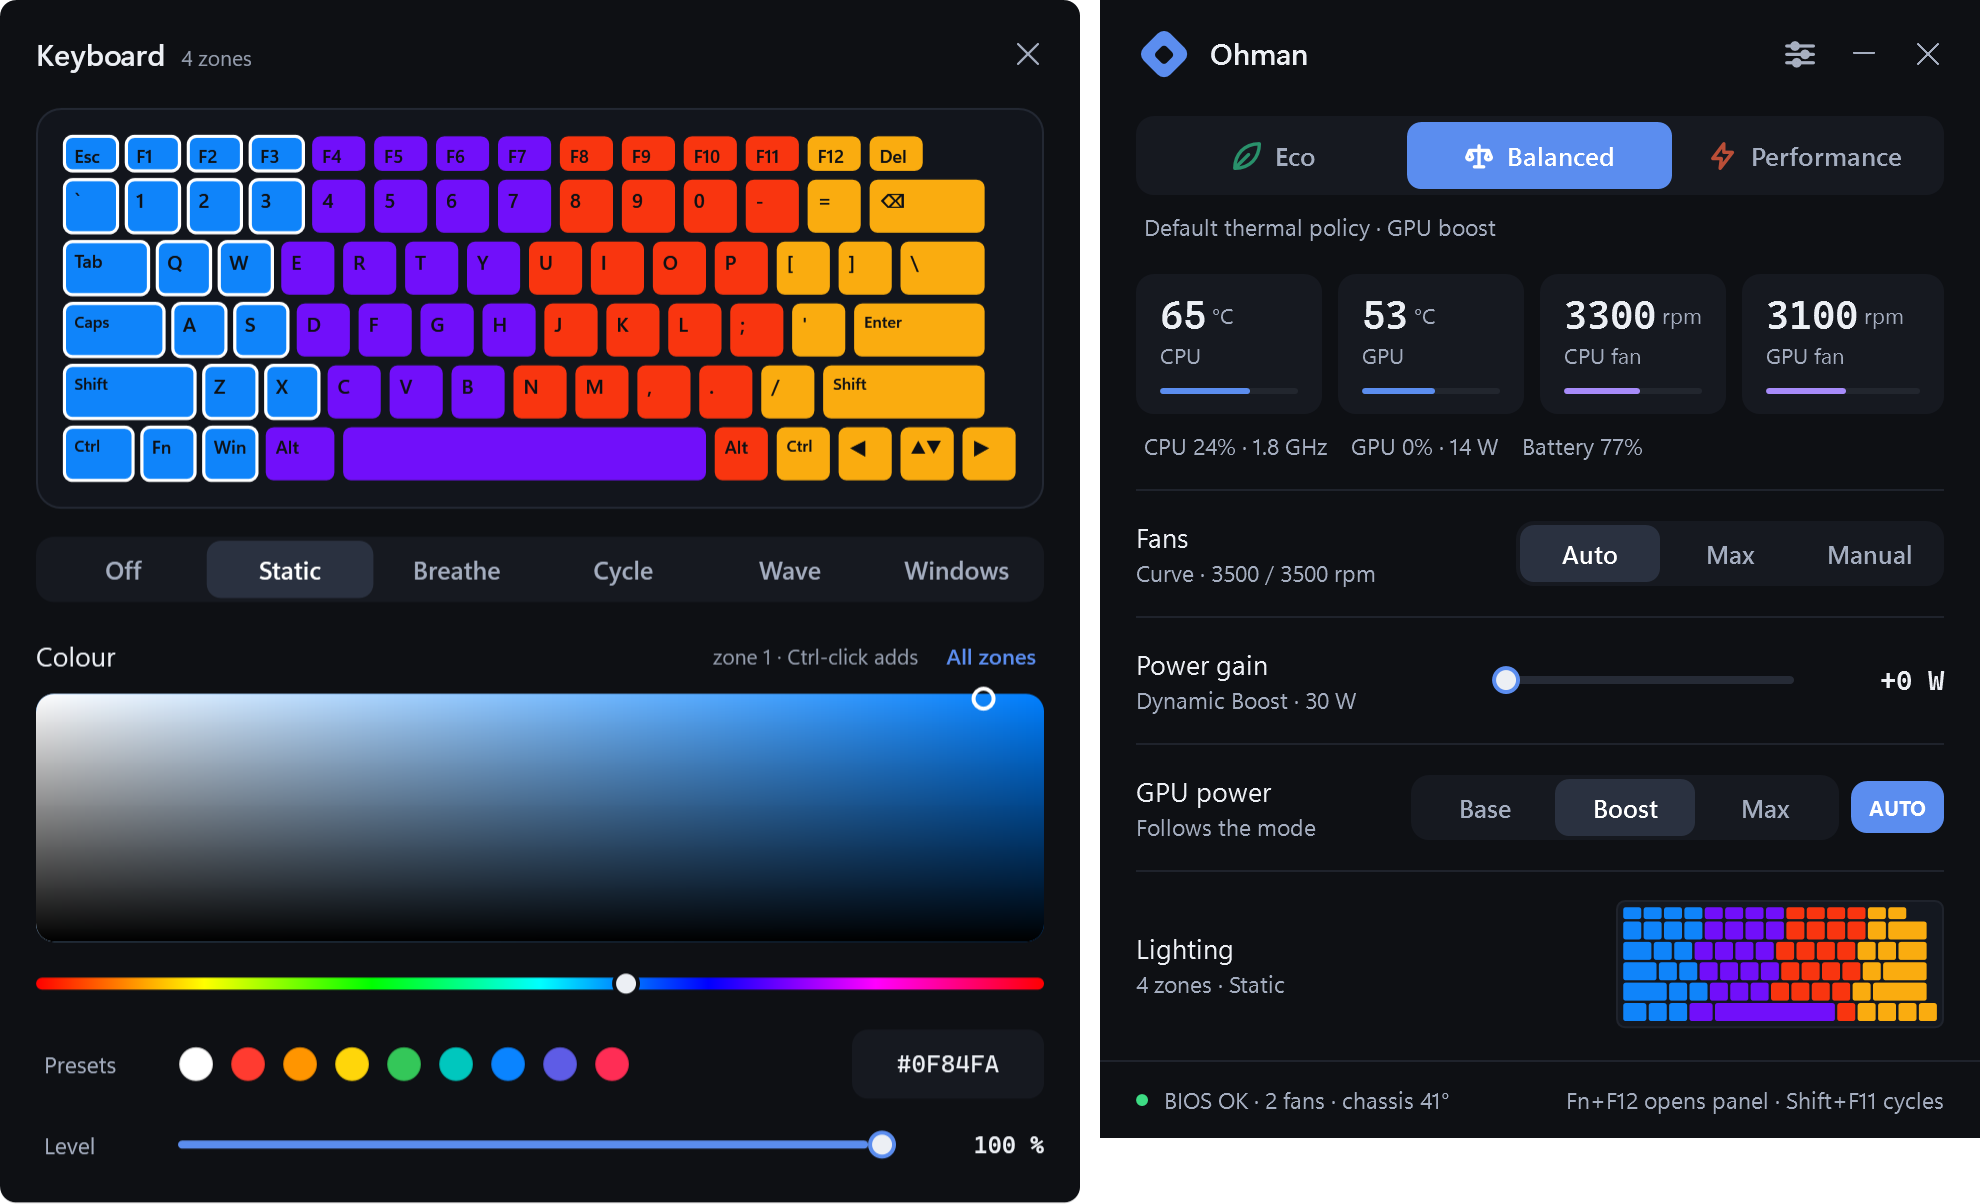
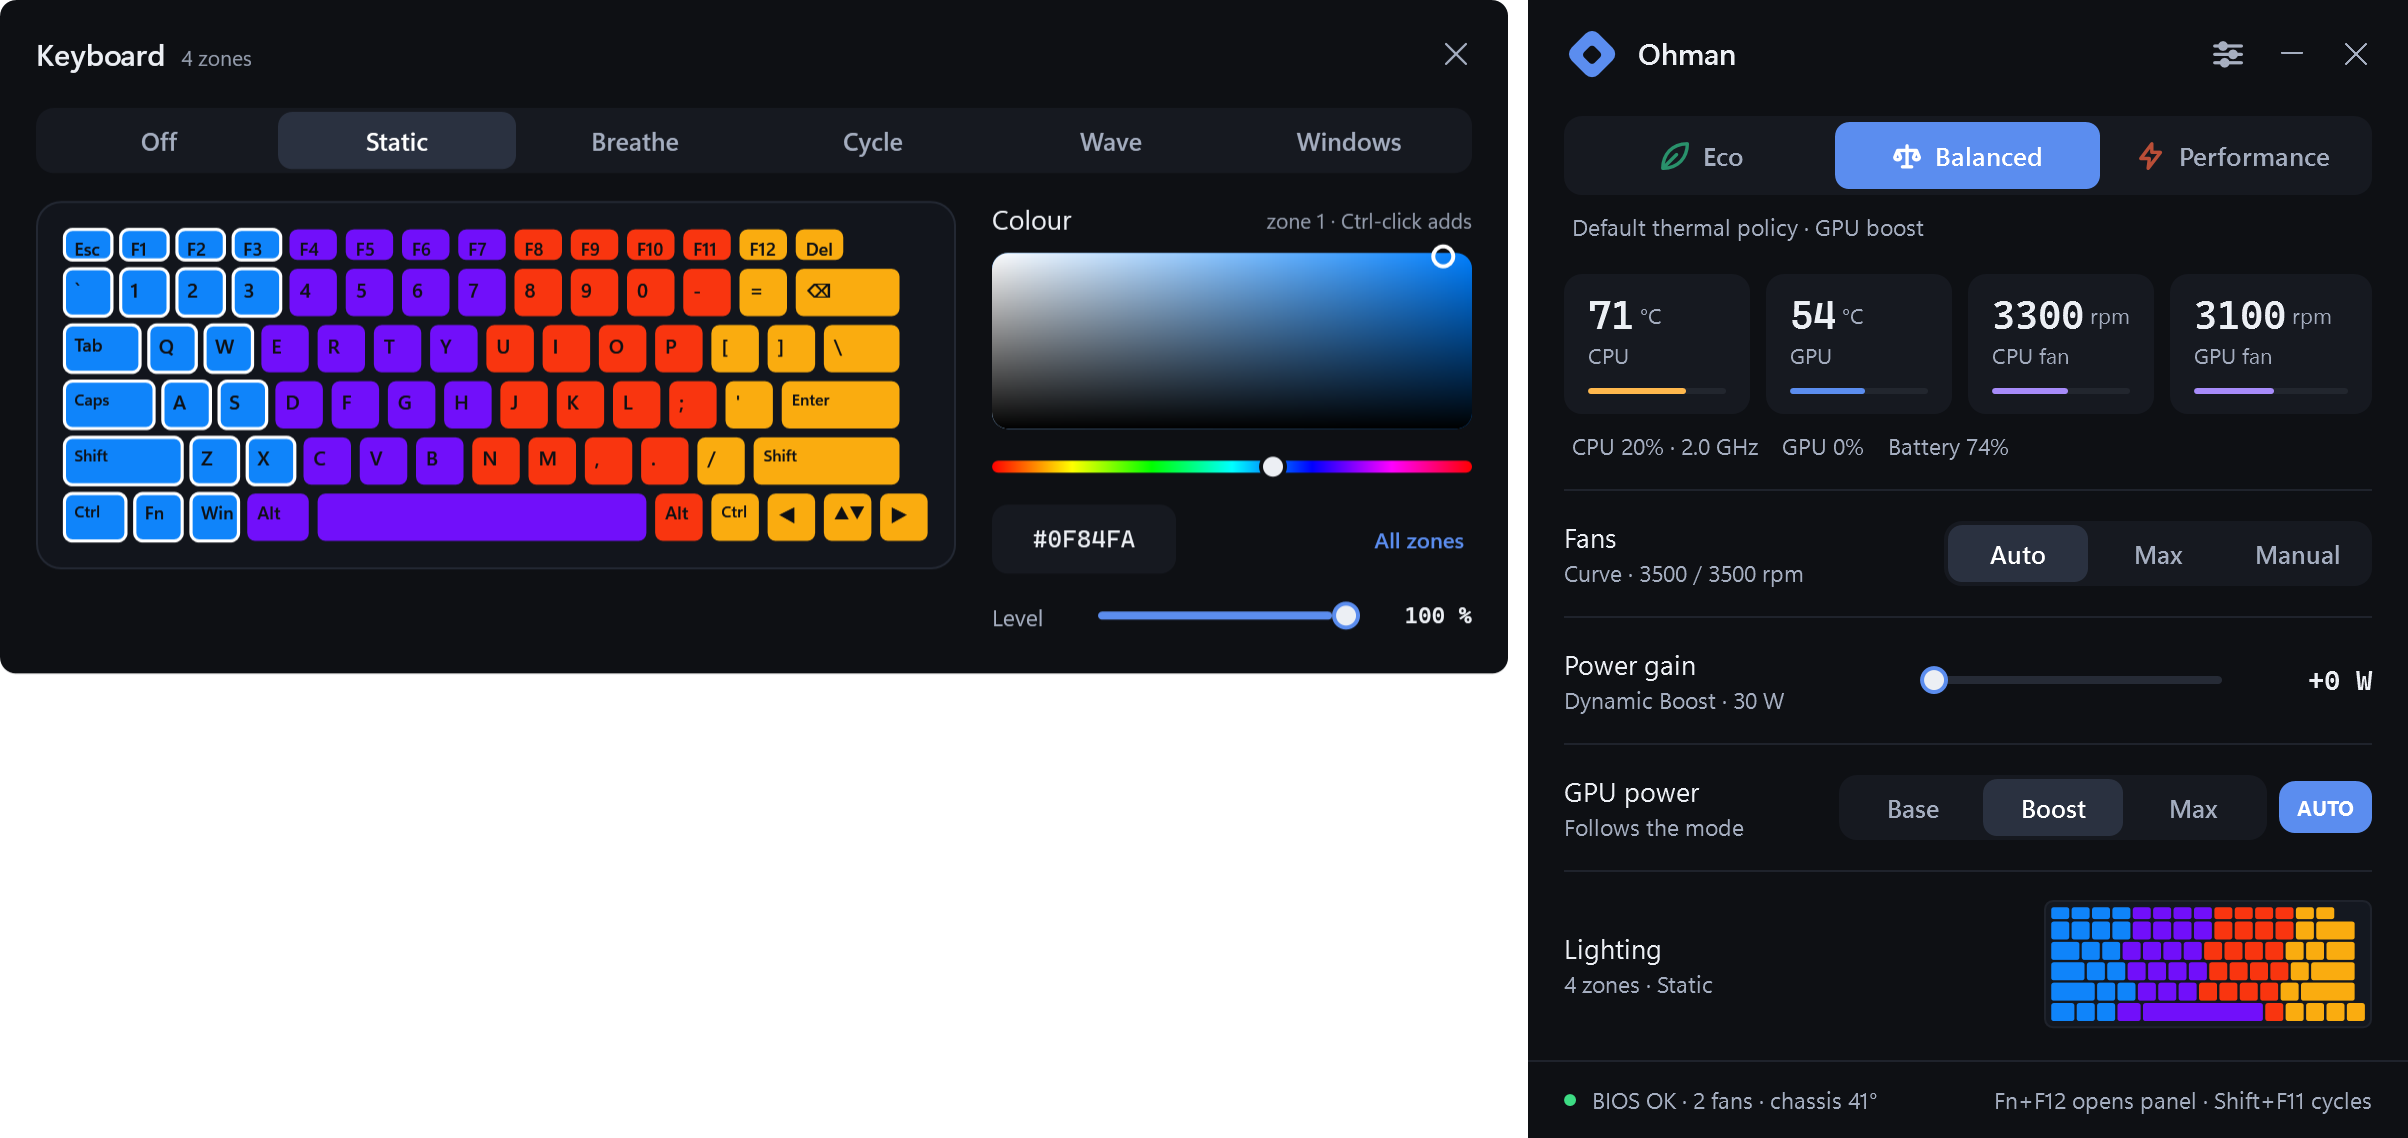
Keyboard editor: wide layout, keyboard beside a narrow controls column; presets removed

diff --git a/src/Ui.xaml b/src/Ui.xaml
@@ -409,14 +409,13 @@
     <ColumnDefinition Width="*"/>
   </Grid.ColumnDefinitions>
 
-  <!-- keyboard editor: slides open on the left of the panel -->
-  <Border x:Name="KbdPanel" Grid.Column="0" Width="540" Visibility="Collapsed" BorderBrush="{StaticResource Line}" BorderThickness="0,0,1,0">
+  <!-- keyboard editor: lives in its own window, docked beside the panel (see BuildKeyboardWindow) -->
+  <Border x:Name="KbdPanel" Grid.Column="0" Width="754" Visibility="Collapsed">
     <Grid Margin="18,0,18,16">
       <Grid.RowDefinitions>
         <RowDefinition Height="54"/>
         <RowDefinition Height="Auto"/>
         <RowDefinition Height="Auto"/>
-        <RowDefinition Height="*"/>
       </Grid.RowDefinitions>
       <Grid x:Name="KbdHeader" Background="Transparent" Cursor="SizeAll">
         <StackPanel Orientation="Horizontal" VerticalAlignment="Center">
@@ -425,8 +424,7 @@
         </StackPanel>
         <Button x:Name="BtnKbdClose" Style="{StaticResource IconBtn}" Content="&#xE8BB;" HorizontalAlignment="Right" VerticalAlignment="Center" Margin="0,0,-8,0" ToolTip="Close"/>
       </Grid>
-      <Border x:Name="KbdHost" Grid.Row="1"/>
-      <Border Grid.Row="2" Style="{StaticResource SegBox}" Margin="0,14,0,0">
+      <Border Grid.Row="1" Style="{StaticResource SegBox}" Margin="0,0,0,14">
         <UniformGrid Rows="1">
           <RadioButton x:Name="KOff" Style="{StaticResource Seg}" GroupName="kbd" Content="Off" MinWidth="0"/>
           <RadioButton x:Name="KStatic" Style="{StaticResource Seg}" GroupName="kbd" Content="Static" MinWidth="0"/>
@@ -436,71 +434,76 @@
           <RadioButton x:Name="KWin" Style="{StaticResource Seg}" GroupName="kbd" Content="Windows" MinWidth="0" ToolTip="Hand the keyboard to Windows Dynamic Lighting"/>
         </UniformGrid>
       </Border>
-      <StackPanel x:Name="Picker" Grid.Row="3" Margin="0,18,0,0" VerticalAlignment="Top">
-        <!-- Static / Breathe: pick colours -->
-        <StackPanel x:Name="ColourBlock">
-          <Grid>
+      <Grid Grid.Row="2">
+        <Grid.ColumnDefinitions>
+          <ColumnDefinition Width="460"/>
+          <ColumnDefinition Width="18"/>
+          <ColumnDefinition Width="*"/>
+        </Grid.ColumnDefinitions>
+        <Border x:Name="KbdHost" VerticalAlignment="Top"/>
+        <StackPanel x:Name="Picker" Grid.Column="2" VerticalAlignment="Top">
+          <!-- Static / Breathe: pick colours -->
+          <StackPanel x:Name="ColourBlock">
+            <Grid>
+              <Grid.ColumnDefinitions>
+                <ColumnDefinition Width="*"/>
+                <ColumnDefinition Width="Auto"/>
+              </Grid.ColumnDefinitions>
+              <TextBlock Text="Colour" Style="{StaticResource Lbl}"/>
+              <TextBlock x:Name="TxtKbdSel" Grid.Column="1" Style="{StaticResource SubSm}" VerticalAlignment="Center"/>
+            </Grid>
+            <Grid x:Name="SvBox" Height="88" Margin="0,8,0,0" Cursor="Cross" Background="Transparent">
+              <Rectangle x:Name="SvHue" RadiusX="8" RadiusY="8" Fill="#FF0000"/>
+              <Rectangle RadiusX="8" RadiusY="8">
+                <Rectangle.Fill><LinearGradientBrush StartPoint="0,0" EndPoint="1,0"><GradientStop Color="#FFFFFFFF" Offset="0"/><GradientStop Color="#00FFFFFF" Offset="1"/></LinearGradientBrush></Rectangle.Fill>
+              </Rectangle>
+              <Rectangle RadiusX="8" RadiusY="8">
+                <Rectangle.Fill><LinearGradientBrush StartPoint="0,0" EndPoint="0,1"><GradientStop Color="#00000000" Offset="0"/><GradientStop Color="#FF000000" Offset="1"/></LinearGradientBrush></Rectangle.Fill>
+              </Rectangle>
+              <Canvas x:Name="SvCanvas" ClipToBounds="False">
+                <Ellipse x:Name="SvMarker" Width="12" Height="12" Stroke="White" StrokeThickness="2" Fill="Transparent"/>
+              </Canvas>
+            </Grid>
+            <Slider x:Name="SlHue" Style="{StaticResource SlHue}" Minimum="0" Maximum="359" IsSnapToTickEnabled="True" TickFrequency="1" Margin="-7,6,-7,0"/>
+            <Grid Margin="0,6,0,0">
+              <Grid.ColumnDefinitions>
+                <ColumnDefinition Width="Auto"/>
+                <ColumnDefinition Width="*"/>
+                <ColumnDefinition Width="Auto"/>
+              </Grid.ColumnDefinitions>
+              <TextBox x:Name="TxtHex" Style="{StaticResource Hex}" MaxLength="7" Width="92" TextAlignment="Center" Padding="6,5"/>
+              <Button x:Name="BtnAllZones" Grid.Column="2" Style="{StaticResource LinkBtn}" Content="All zones" VerticalAlignment="Center" ToolTip="Colour every zone at once"/>
+            </Grid>
+          </StackPanel>
+          <!-- Cycle / Wave: the effect makes the colours; Off / Windows: nothing to pick -->
+          <StackPanel x:Name="InfoBlock" Visibility="Collapsed">
+            <TextBlock x:Name="TxtKbdInfo" Style="{StaticResource Sub}" Margin="0,2,0,0"/>
+            <Button x:Name="BtnWinLighting" Style="{StaticResource LinkBtn}" Content="Open Windows lighting settings" HorizontalAlignment="Left" Margin="-4,6,0,0" Visibility="Collapsed"/>
+          </StackPanel>
+          <!-- Breathe / Cycle / Wave -->
+          <Grid x:Name="SpeedRow" Margin="0,12,0,0" Visibility="Collapsed">
             <Grid.ColumnDefinitions>
+              <ColumnDefinition Width="46"/>
               <ColumnDefinition Width="*"/>
-              <ColumnDefinition Width="Auto"/>
-              <ColumnDefinition Width="Auto"/>
+              <ColumnDefinition Width="56"/>
             </Grid.ColumnDefinitions>
-            <TextBlock Text="Colour" Style="{StaticResource Lbl}"/>
-            <TextBlock x:Name="TxtKbdSel" Grid.Column="1" Style="{StaticResource SubSm}" VerticalAlignment="Center" Margin="0,0,10,0"/>
-            <Button x:Name="BtnAllZones" Grid.Column="2" Style="{StaticResource LinkBtn}" Content="All zones" VerticalAlignment="Center" ToolTip="Colour every zone at once"/>
+            <TextBlock Text="Speed" Style="{StaticResource Sub}" VerticalAlignment="Center"/>
+            <Slider x:Name="SlSpeed" Grid.Column="1" Style="{StaticResource Sl}" Minimum="1" Maximum="5" IsSnapToTickEnabled="True" TickFrequency="1"/>
+            <TextBlock x:Name="TxtSpeed" Grid.Column="2" Style="{StaticResource Mono}" FontSize="11.5"/>
           </Grid>
-          <Grid x:Name="SvBox" Height="124" Margin="0,10,0,0" Cursor="Cross" Background="Transparent">
-            <Rectangle x:Name="SvHue" RadiusX="9" RadiusY="9" Fill="#FF0000"/>
-            <Rectangle RadiusX="9" RadiusY="9">
-              <Rectangle.Fill><LinearGradientBrush StartPoint="0,0" EndPoint="1,0"><GradientStop Color="#FFFFFFFF" Offset="0"/><GradientStop Color="#00FFFFFF" Offset="1"/></LinearGradientBrush></Rectangle.Fill>
-            </Rectangle>
-            <Rectangle RadiusX="9" RadiusY="9">
-              <Rectangle.Fill><LinearGradientBrush StartPoint="0,0" EndPoint="0,1"><GradientStop Color="#00000000" Offset="0"/><GradientStop Color="#FF000000" Offset="1"/></LinearGradientBrush></Rectangle.Fill>
-            </Rectangle>
-            <Canvas x:Name="SvCanvas" ClipToBounds="False">
-              <Ellipse x:Name="SvMarker" Width="12" Height="12" Stroke="White" StrokeThickness="2" Fill="Transparent"/>
-            </Canvas>
-          </Grid>
-          <Slider x:Name="SlHue" Style="{StaticResource SlHue}" Minimum="0" Maximum="359" IsSnapToTickEnabled="True" TickFrequency="1" Margin="-7,8,-7,0"/>
-          <Grid Margin="0,10,0,0">
+          <!-- every lit mode -->
+          <Grid x:Name="LevelRow" Margin="0,8,0,0">
             <Grid.ColumnDefinitions>
-              <ColumnDefinition Width="64"/>
+              <ColumnDefinition Width="46"/>
               <ColumnDefinition Width="*"/>
-              <ColumnDefinition Width="Auto"/>
+              <ColumnDefinition Width="56"/>
             </Grid.ColumnDefinitions>
-            <TextBlock Text="Presets" Style="{StaticResource Sub}" Margin="4,0,0,0" VerticalAlignment="Center"/>
-            <StackPanel x:Name="Presets" Grid.Column="1" Orientation="Horizontal" VerticalAlignment="Center" Margin="7,0,0,0"/>
-            <TextBox x:Name="TxtHex" Grid.Column="2" Style="{StaticResource Hex}" MaxLength="7" Width="96" TextAlignment="Center" Padding="6,5"/>
+            <TextBlock Text="Level" Style="{StaticResource Sub}" VerticalAlignment="Center"/>
+            <Slider x:Name="SlLevel" Grid.Column="1" Style="{StaticResource Sl}" Minimum="5" Maximum="100" IsSnapToTickEnabled="True" TickFrequency="5"/>
+            <TextBlock x:Name="TxtLevel" Grid.Column="2" Style="{StaticResource Mono}" FontSize="11.5"/>
           </Grid>
         </StackPanel>
-        <!-- Cycle / Wave: the effect makes the colours; Off / Windows: nothing to pick -->
-        <StackPanel x:Name="InfoBlock" Visibility="Collapsed">
-          <TextBlock x:Name="TxtKbdInfo" Style="{StaticResource Sub}" Margin="0,2,0,0"/>
-          <Button x:Name="BtnWinLighting" Style="{StaticResource LinkBtn}" Content="Open Windows lighting settings" HorizontalAlignment="Left" Margin="-4,6,0,0" Visibility="Collapsed"/>
-        </StackPanel>
-        <!-- Breathe / Cycle / Wave -->
-        <Grid x:Name="SpeedRow" Margin="0,12,0,0" Visibility="Collapsed">
-          <Grid.ColumnDefinitions>
-            <ColumnDefinition Width="64"/>
-            <ColumnDefinition Width="*"/>
-            <ColumnDefinition Width="74"/>
-          </Grid.ColumnDefinitions>
-          <TextBlock Text="Speed" Style="{StaticResource Sub}" Margin="4,0,0,0" VerticalAlignment="Center"/>
-          <Slider x:Name="SlSpeed" Grid.Column="1" Style="{StaticResource Sl}" Minimum="1" Maximum="5" IsSnapToTickEnabled="True" TickFrequency="1"/>
-          <TextBlock x:Name="TxtSpeed" Grid.Column="2" Style="{StaticResource Mono}" FontSize="12"/>
-        </Grid>
-        <!-- every lit mode -->
-        <Grid x:Name="LevelRow" Margin="0,10,0,0">
-          <Grid.ColumnDefinitions>
-            <ColumnDefinition Width="64"/>
-            <ColumnDefinition Width="*"/>
-            <ColumnDefinition Width="74"/>
-          </Grid.ColumnDefinitions>
-          <TextBlock Text="Level" Style="{StaticResource Sub}" Margin="4,0,0,0" VerticalAlignment="Center"/>
-          <Slider x:Name="SlLevel" Grid.Column="1" Style="{StaticResource Sl}" Minimum="5" Maximum="100" IsSnapToTickEnabled="True" TickFrequency="5"/>
-          <TextBlock x:Name="TxtLevel" Grid.Column="2" Style="{StaticResource Mono}" FontSize="12"/>
-        </Grid>
-      </StackPanel>
+      </Grid>
     </Grid>
   </Border>
 

diff --git a/docs/index.html b/docs/index.html
@@ -228,7 +228,7 @@ footer p{margin:0 0 8px}
         <dt>Extras</dt>
         <dd>Tray, hotkeys, start with Windows without a UAC prompt, Eco on battery, on-screen flash on key presses.</dd>
       </dl>
-      <img class="shot wide" src="keyboard.png" width="1980" height="1204" alt="The keyboard editor open beside the panel: zones on a drawn keyboard, effects, colour picker, presets and level.">
+      <img class="shot wide" src="keyboard.png" width="2408" height="1138" alt="The keyboard editor open beside the panel: zones on a drawn keyboard, effects, colour picker, presets and level.">
     </section>
 
     <!-- 6. how it works -->

diff --git a/src/Ui.cs b/src/Ui.cs
@@ -140,7 +140,7 @@ namespace Ohman {
         RadioButton fanAuto, fanMax, fanManual, gpuBase, gpuBoost, gpuMax, keyCycle, keyShow, keyMax, keyOff;
         Slider slFan1, slFan2, slPower, slHue, slLevel;
         // keyboard lighting
-        FrameworkElement lightRow, lightDivider, kbdPanel, svBox; Border miniHost, kbdHost; StackPanel presets; TextBlock txtLightSub, txtKbdKind, txtKbdSel, txtLevel;
+        FrameworkElement lightRow, lightDivider, kbdPanel, svBox; Border miniHost, kbdHost; TextBlock txtLightSub, txtKbdKind, txtKbdSel, txtLevel;
         RadioButton kOff, kStatic, kBreathe, kCycle, kWave, kWin; Button btnAllZones, btnKbdClose; TextBox txtHex; Rectangle svHue; Ellipse svMarker; Canvas svCanvas;
         KeyboardView kbdMini, kbdBig; bool kbdOpen; double curH, curS = 1, curV = 1; DispatcherTimer colorDebounce, levelDebounce, speedDebounce, previewTimer; const double KbdWidth = 540;
         FrameworkElement colourBlock, infoBlock, speedRow, levelRow; TextBlock txtKbdInfo, txtSpeed; Slider slSpeed; Button btnWinLighting; double previewPhase;
@@ -234,7 +234,7 @@ namespace Ohman {
             kbdPanel = F<FrameworkElement>("KbdPanel"); kbdHost = F<Border>("KbdHost"); txtKbdKind = F<TextBlock>("TxtKbdKind"); txtKbdSel = F<TextBlock>("TxtKbdSel"); btnKbdClose = F<Button>("BtnKbdClose");
             kOff = F<RadioButton>("KOff"); kStatic = F<RadioButton>("KStatic"); kBreathe = F<RadioButton>("KBreathe"); kCycle = F<RadioButton>("KCycle"); kWave = F<RadioButton>("KWave"); kWin = F<RadioButton>("KWin");
             svBox = F<FrameworkElement>("SvBox"); svHue = F<Rectangle>("SvHue"); svMarker = F<Ellipse>("SvMarker"); svCanvas = F<Canvas>("SvCanvas");
-            slHue = F<Slider>("SlHue"); slLevel = F<Slider>("SlLevel"); txtLevel = F<TextBlock>("TxtLevel"); txtHex = F<TextBox>("TxtHex"); btnAllZones = F<Button>("BtnAllZones"); presets = F<StackPanel>("Presets");
+            slHue = F<Slider>("SlHue"); slLevel = F<Slider>("SlLevel"); txtLevel = F<TextBlock>("TxtLevel"); txtHex = F<TextBox>("TxtHex"); btnAllZones = F<Button>("BtnAllZones");
             colourBlock = F<FrameworkElement>("ColourBlock"); infoBlock = F<FrameworkElement>("InfoBlock"); speedRow = F<FrameworkElement>("SpeedRow"); levelRow = F<FrameworkElement>("LevelRow");
             txtKbdInfo = F<TextBlock>("TxtKbdInfo"); txtSpeed = F<TextBlock>("TxtSpeed"); slSpeed = F<Slider>("SlSpeed"); btnWinLighting = F<Button>("BtnWinLighting");
             settingsPanel = F<FrameworkElement>("SettingsPanel"); txtMachine = F<TextBlock>("TxtMachine");
@@ -438,7 +438,6 @@ namespace Ohman {
         }
 
         // ---------- keyboard lighting ----------
-        static readonly string[] PresetHex = { "FFFFFF", "FF3B30", "FF9500", "FFD60A", "34C759", "00C7BE", "0A84FF", "5E5CE6", "FF2D55" };
         int[] SelectedZones() { var l = new List<int>(kbdBig.Selected); l.Sort(); return l.ToArray(); }
         void BuildLighting() {
             if (E.Light == null) { lightRow.Visibility = Visibility.Collapsed; lightDivider.Visibility = Visibility.Collapsed; return; }
@@ -458,12 +457,6 @@ namespace Ohman {
             btnAllZones.Click += delegate { kbdBig.Selected.Clear(); for (int i = 0; i < E.Light.Zones; i++) kbdBig.Selected.Add(i); kbdBig.Repaint(); SyncPickerFromSelection(); };
             if (E.Light.Zones == 1) btnAllZones.Visibility = Visibility.Collapsed;
             if (!WinLighting.Present && !E.Hw.IsDemo) kWin.Visibility = Visibility.Collapsed;    // no Dynamic Lighting device for this keyboard
-            foreach (string hex in PresetHex) {
-                Rgb c; Rgb.TryParse(hex, out c); Rgb cc = c;
-                var d = new Button { Style = (Style)root.FindResource("Dot"), Background = Ui.Brush("#" + hex), ToolTip = "#" + hex };
-                d.Click += delegate { cc.ToHsv(out curH, out curS, out curV); SyncPickerControls(); PushColor(true); };
-                presets.Children.Add(d);
-            }
             RoutedEventHandler mode = delegate {
                 if (syncing) return;
                 int m = kWin.IsChecked == true ? 2 : kOff.IsChecked == true ? 0 : 1;
@@ -520,7 +513,7 @@ namespace Ohman {
                 : m == 2 ? "Windows Dynamic Lighting is painting the keyboard; its colours and effects come from Windows settings. Pick a mode above to take it back."
                 : fx == 2 ? "Cycle runs every zone through the spectrum together." : "Wave runs the spectrum across the zones, left to right.";
             kbdBig.Selectable = pick; kbdBig.Off = m == 0 || m == 2; kbdMini.Off = m == 0 || m == 2;
-            speedRow.Margin = new Thickness(0, pick ? 12 : 14, 0, 0);
+            speedRow.Margin = new Thickness(0, pick ? 10 : 14, 0, 0);
             if (effect) { if (!previewTimer.IsEnabled) previewTimer.Start(); } else previewTimer.Stop();
         }
         void ApplyHex() {
@@ -541,7 +534,7 @@ namespace Ohman {
             int[] z = SelectedZones();
             if (z.Length > 0 && E.LightColors.Length > z[0]) E.LightColors[z[0]].ToHsv(out curH, out curS, out curV);
             SyncPickerControls();
-            txtKbdSel.Text = E.Light.Zones == 1 ? "whole keyboard" : z.Length == E.Light.Zones ? "all zones · click a key to pick one" : "zone " + string.Join(", ", Array.ConvertAll(z, delegate(int i) { return (i + 1).ToString(); })) + " · Ctrl-click adds";
+            txtKbdSel.Text = E.Light.Zones == 1 ? "whole keyboard" : z.Length == E.Light.Zones ? "all zones" : "zone " + string.Join(", ", Array.ConvertAll(z, delegate(int i) { return (i + 1).ToString(); })) + " · Ctrl-click adds";
         }
         /// <summary>Paint the selection in the drawings immediately, then send the colour to the firmware (debounced).</summary>
         void PushColor(bool now) {
@@ -561,7 +554,7 @@ namespace Ohman {
             border.Visibility = Visibility.Visible; border.BorderThickness = new Thickness(0); border.Background = Ui.Brush("#0E1014"); border.CornerRadius = new CornerRadius(8);
             kbdWin = new Window {
                 Title = Program.DisplayName + " keyboard", WindowStyle = WindowStyle.None, ResizeMode = ResizeMode.NoResize, ShowInTaskbar = false,
-                Background = Brushes.Transparent, AllowsTransparency = false, Width = 540, SizeToContent = SizeToContent.Height, Content = kbdPanel,
+                Background = Brushes.Transparent, AllowsTransparency = false, Width = 754, SizeToContent = SizeToContent.Height, Content = kbdPanel,
                 ShowActivated = true, Icon = Icon
             };
             kbdWin.Background = Ui.Brush("#0E1014");
